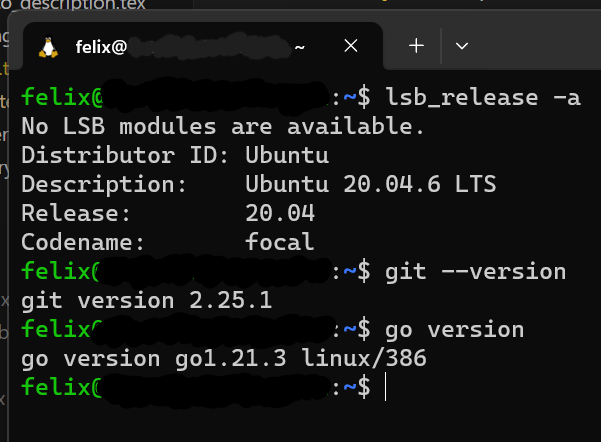
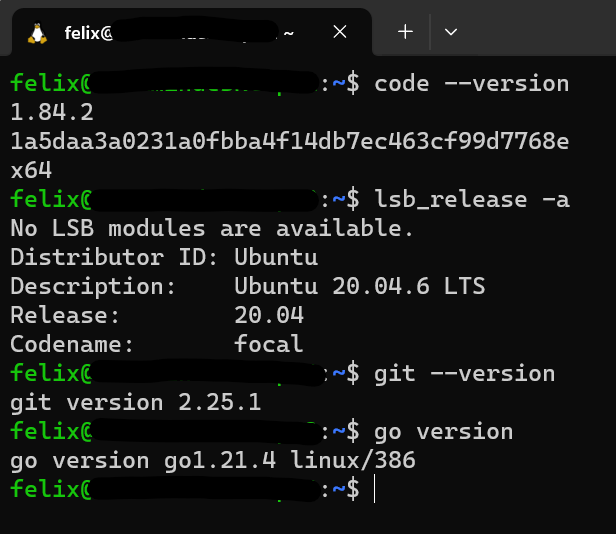
Bitte mach dass es aufhört

diff --git a/chapters/2_golang_tasks/4.0_advanced_go_program.tex b/chapters/2_golang_tasks/4.0_advanced_go_program.tex
@@ -111,66 +111,3 @@ The program exits with a success message and the exit-status as shown in figure 
       \caption{Successful Rental of a Car for Alice}
       \label{fig:car_rental_cli_rental_alice_successful}
 \end{figure}
-
-\subsection{Excercise TestCarRentalCLI}
-\label{sec:exercise_test_car_rental_cli}
-\subsubsection*{Derive Test Cases}
-
-\subsubsection*{Analyze Test Structure}
-% Structure description of the test file and mock-repository
-The MockCarRepository acts similar to the actual CarRepository.
-It implements the CarRentalRepositoryInterface and provides the according functions.
-Furthermore, it also implements the lists of the models \texttt{Rental}, \texttt{Car}, and \texttt{Customer}.
-However, there is no constructor and no manipulation of yaml files.
-All data-manipulations are done in the memory of the mock-repository.
-Therefore the mock-repository only imports the used models.
-
-The test file \texttt{RentACarOperation\_test.go} implements the tests for the \texttt{RentACar} function.
-It creates the testint environment by implementing the constructor of the mock-repository, populating it with test data.
-After the setup the executable tests are implemented.
-
-% Structure description of the test function TestCarRentalOperations_RentACar
-The implementation of the tests happens in the \texttt{TestCarRentalOperations\_RentACar} function.
-The \texttt{fields} struct defines the repository used in each test and therefore the test environment.
-After that, the \texttt{args} struct defines the arguments needed for the \texttt{RentACar} function.
-Now, the test cases are implemented containing the following values:
-\begin{itemize}
-      \item fields: The repository used in the test as specified above
-      \item name: The name of the test
-      \item args: The arguments for the \texttt{RentACar} function as specified above
-      \item want: The expected return value of the \texttt{RentACar} function, in this case a String 
-      \item wantErr: True, if an error is expected, false otherwise. 
-            This allows the implementation of negative test cases without the tests failing.
-\end{itemize}
-
-% Differences between the mock and the normal repository
-The following differences occur between the mock and the normal repository:
-\begin{itemize}
-      \item The mock repository does not implement a constructor
-      \item The mock repository does not manipulate any yaml files, everything is done in the mock repository's lists.
-      \item The mock repository only imports the models used in the tests.
-      \item The mock repository is only used for testing while the normal repository is used in the application.
-      \item The mock repository is located in the same package as the test file (operations), while the normal repository is located in the infrastructure package.
-\end{itemize}
-
-However, there are still some similarities:
-\begin{itemize}
-      \item Both repositories implement the CarRentalRepositoryInterface and therefore provide the same functions.
-      \item The provided functionalities are somewhat similar besides the differences mentioned above.
-      \item Both repositories are adressed via an operations object representing the repository
-\end{itemize}
-
-% Why is a mocked repository required?
-Now, why is mocked repository required?
-First of all, the mock repository is required to test the functionality of the \texttt{RentACar} function.
-This could also be done with the normal repository, however, this would require the manipulation of the yaml files, which arises the following problems:
-\begin{itemize}
-      \item Test data and actual application data are mixed up
-      \item The test data is not reset after the test, which could lead to problems in the next test
-      \item The test data needs no be cleaned up after the test, which is not necessary with the mock repository
-      \item By creating a certain testing environment, the testing data can manipulated to test the wanted scenarios
-\end{itemize}
-
-Further benefits and the actual usage and implementation of both the normal and the mock repository are further explained in \ref*{sec:go_repositories}.
-
-\subsection*{Run Tests}

diff --git a/chapters/2_golang_tasks/4.3_tests.tex b/chapters/2_golang_tasks/4.3_tests.tex
@@ -1,0 +1,64 @@
+\subsection{Excercise TestCarRentalCLI}
+\label{sec:exercise_test_car_rental_cli}
+
+\subsubsection*{Derive Test Cases}
+
+
+\subsubsection*{Analyze Test Structure}
+% Structure description of the test file and mock-repository
+The MockCarRepository acts similar to the actual CarRepository.
+It implements the CarRentalRepositoryInterface and provides the according functions.
+Furthermore, it also implements the lists of the models \texttt{Rental}, \texttt{Car}, and \texttt{Customer}.
+However, there is no constructor and no manipulation of yaml files.
+All data-manipulations are done in the memory of the mock-repository.
+Therefore the mock-repository only imports the used models.
+
+The test file \texttt{RentACarOperation\_test.go} implements the tests for the \texttt{RentACar} function.
+It creates the testint environment by implementing the constructor of the mock-repository, populating it with test data.
+After the setup the executable tests are implemented.
+
+% Structure description of the test function TestCarRentalOperations_RentACar
+The implementation of the tests happens in the \texttt{TestCarRentalOperations\_RentACar} function.
+The \texttt{fields} struct defines the repository used in each test and therefore the test environment.
+After that, the \texttt{args} struct defines the arguments needed for the \texttt{RentACar} function.
+Now, the test cases are implemented containing the following values:
+\begin{itemize}
+      \item fields: The repository used in the test as specified above
+      \item name: The name of the test
+      \item args: The arguments for the \texttt{RentACar} function as specified above
+      \item want: The expected return value of the \texttt{RentACar} function, in this case a String 
+      \item wantErr: True, if an error is expected, false otherwise. 
+            This allows the implementation of negative test cases without the tests failing.
+\end{itemize}
+
+% Differences between the mock and the normal repository
+The following differences occur between the mock and the normal repository:
+\begin{itemize}
+      \item The mock repository does not implement a constructor
+      \item The mock repository does not manipulate any yaml files, everything is done in the mock repository's lists.
+      \item The mock repository only imports the models used in the tests.
+      \item The mock repository is only used for testing while the normal repository is used in the application.
+      \item The mock repository is located in the same package as the test file (operations), while the normal repository is located in the infrastructure package.
+\end{itemize}
+
+However, there are still some similarities:
+\begin{itemize}
+      \item Both repositories implement the CarRentalRepositoryInterface and therefore provide the same functions.
+      \item The provided functionalities are somewhat similar besides the differences mentioned above.
+      \item Both repositories are adressed via an operations object representing the repository
+\end{itemize}
+
+% Why is a mocked repository required?
+Now, why is mocked repository required?
+First of all, the mock repository is required to test the functionality of the \texttt{RentACar} function.
+This could also be done with the normal repository, however, this would require the manipulation of the yaml files, which arises the following problems:
+\begin{itemize}
+      \item Test data and actual application data are mixed up
+      \item The test data is not reset after the test, which could lead to problems in the next test
+      \item The test data needs no be cleaned up after the test, which is not necessary with the mock repository
+      \item By creating a certain testing environment, the testing data can manipulated to test the wanted scenarios
+\end{itemize}
+
+Further benefits and the actual usage and implementation of both the normal and the mock repository are further explained in \ref*{sec:go_repositories}.
+
+\subsection*{Run Tests}

diff --git a/chapters/2_golang_tasks/2.2_cm_gitlab_usage.tex b/chapters/2_golang_tasks/2.2_cm_gitlab_usage.tex
@@ -3,8 +3,8 @@
 \subsection{Exercise CMGitLabUsage}
 
 \subsubsection*{Description of the M2Go Subgroup Structure}
-The subgroup structure (figure \ref*{fig:screendump_subgroupStructure}) shows the Golang repository.
-This repository consists out of three folder:
+The subgroup structure in figure \ref*{fig:screendump_subgroupStructure} shows the Golang repository.
+This repository consists out of three folders:
 \begin{enumerate}
     \item BasicGoProgram/HelloWorld
     \item CarRental
@@ -31,8 +31,8 @@ To clone the repository, the following steps are required:
 
 \subsubsection*{First Commit}
 After changing the placeholder text in the README.md file, the first commit is done by using the graphical features Visual Studio Code offers.
-The commit message (figure \ref*{fig:screendump_readmeCommitMessage}) is the following: \texttt{Update author and supervisor in README.md}.
-After committing the changes, the changes are pushed to the remote repository, which then become visible on GitLab (figure \ref*{fig:screendump_readme}).
+The commit message shown in figure \ref*{fig:screendump_readmeCommitMessage} is the following: \texttt{Update author and supervisor in README.md}.
+After committing the changes, the changes are pushed to the remote repository, which then become visible on GitLab as shown in figure \ref*{fig:screendump_readme}.
 
 \begin{figure}[h]
     \centering

diff --git a/chapters/2_golang_tasks/2.1_excercise_install_go_env.tex b/chapters/2_golang_tasks/2.1_excercise_install_go_env.tex
@@ -8,9 +8,9 @@ The hardware used is a Windows Surface Studio with an 11th Gen Intel Core i5-113
 The operating system is Windows 11 64-bit. However, the installation is carried out on WSL 2 running Ubuntu 20.04.6 LTS installed on the machine.
 
 \subsubsection*{Installation Steps}
-WSL2 (Ubuntu 20.04.6 LTS), VSCode (1.84.0) and Git (2.25.1) are already installed on the machine. Therefore no further installation steps are required for these tools.
+WSL2 (Ubuntu 20.04.6 LTS), VSCode (1.84.2) and Git (2.25.1) are already installed on the machine. Therefore no further installation steps are required for these tools.
 
-Carrying out the installation of Go, version go1.21.3 is installed.
+Carrying out the installation of Go, version go1.21.4 is installed.
 To install Go on the machine, the following steps are required:
 \begin{enumerate}
     \item Download the latest version of Go from \url{https://go.dev/dl/go1.21.3.linux-386.tar.gz} by using  \texttt{wget}
@@ -26,7 +26,7 @@ To install Go on the machine, the following steps are required:
 
 \begin{figure}
 	\centering
-	\includegraphics[width=0.8\textwidth]{figures/goLang/installation_screendump.png}
+	\includegraphics[width=0.5\textwidth]{figures/goLang/installation_screendump.png}
 	\caption{Screendump showing the correct installation of the environment}
 	\label{fig:screendump_installation}
 \end{figure}

diff --git a/chapters/2_golang.tex b/chapters/2_golang.tex
@@ -28,5 +28,6 @@ Section two is based on the CarRental app and its use cases.
 
 \section{Advanced Go Program CarRentalCLI}
 \input{chapters/2_golang_tasks/4.0_advanced_go_program.tex}
+\input{chapters/2_golang_tasks/4.3_tests.tex}
 
 %==============================================================================
